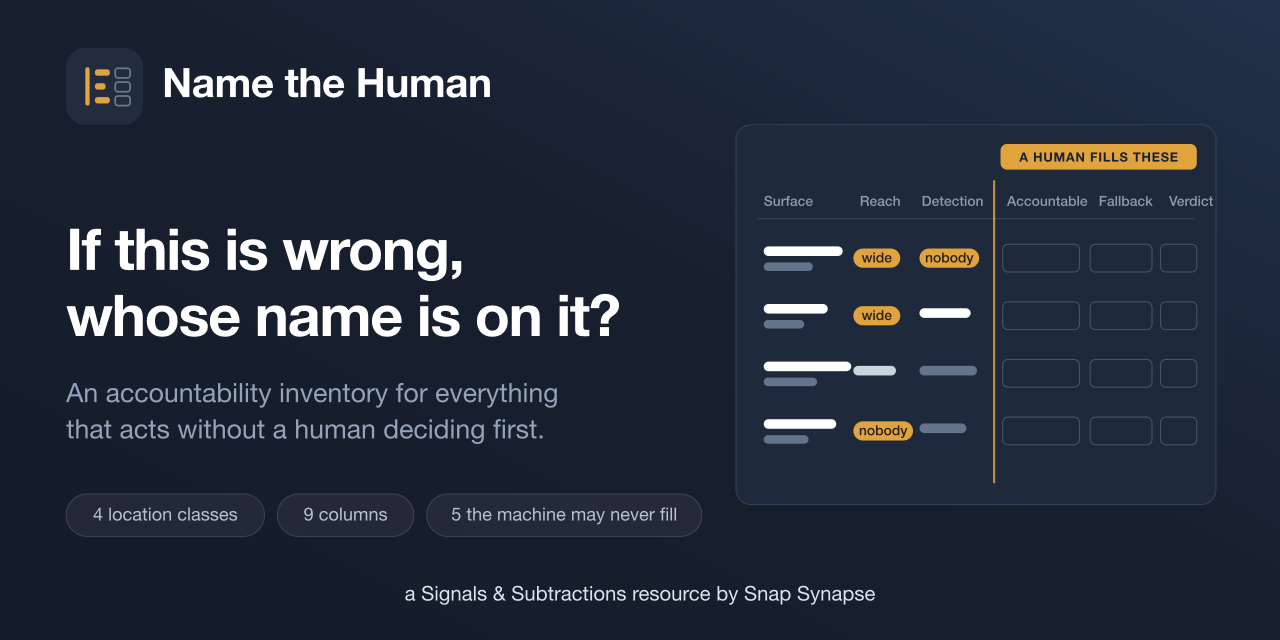
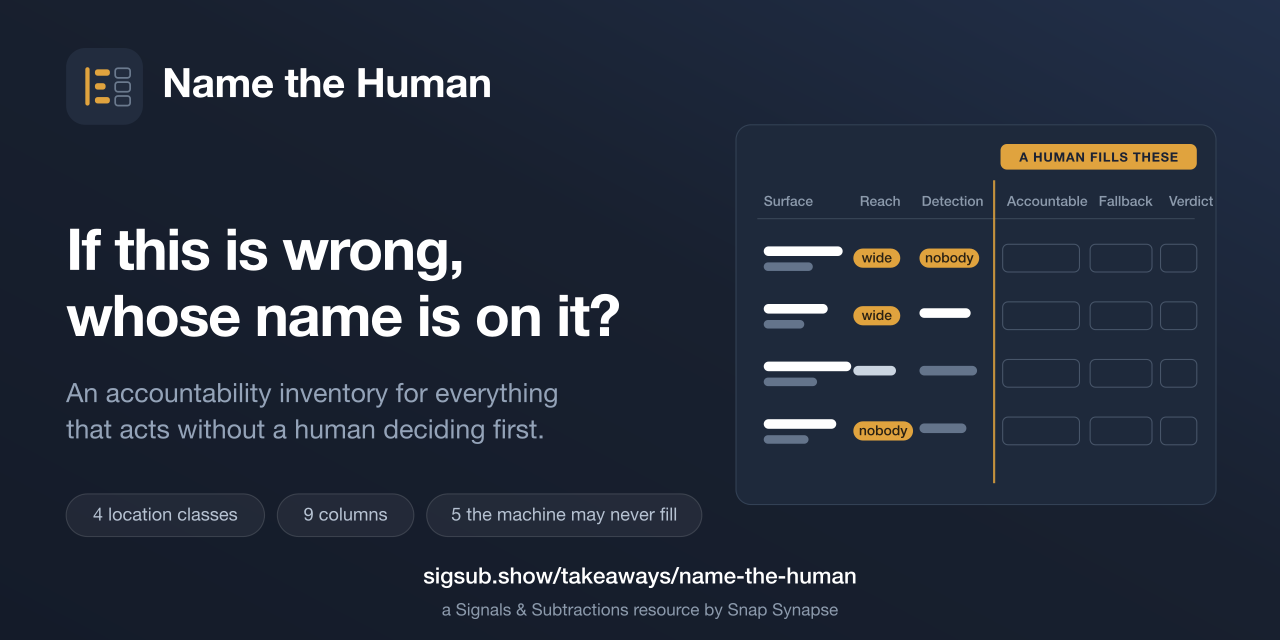
Point at the takeaway now that it is live
The page shipped at sigsub.show/takeaways/name-the-human/, so the README's
two standing promises are filled: Credit and "Where this fits" both link it.
Ep 12 stays unlinked because it has not shipped.

homepageUrl moves from the show root to the takeaway, which is the first URL
this repository has had that is actually about this repository.

The OG card gains the domain line it was built without. It was deliberately
omitted while the page 404'd, because a card advertising a URL that does not
resolve is worse than one that carries only a credit line. The credit drops
to a second line in muted grey so the address leads.

Changed region(s): [[0.3125, 0.875, 0.6875, 0.9688]]

diff --git a/README.md b/README.md
@@ -158,11 +158,11 @@ Claude Code and OpenAI Codex, on one macOS estate, by the author. Schema v0.3 ha
 
 ## Credit
 
-The responsibility-versus-accountability distinction this turns on came out of a conversation with Omar Ladak ahead of Signals & Subtractions Ep 12. The columns, the schema and the prior art are Sam's. Ep 12 and the show's own page for this will be linked here once they ship.
+The responsibility-versus-accountability distinction this turns on came out of a conversation with Omar Ladak ahead of Signals & Subtractions Ep 12. The columns, the schema and the prior art are Sam's. The show's page for this is live at [sigsub.show/takeaways/name-the-human](https://sigsub.show/takeaways/name-the-human/); Ep 12 will be linked here once it ships.
 
 ## Where this fits
 
-The method layer of a takeaway program at Signals & Subtractions. The show page for the takeaway is the layer that carries real numbers from a real pass; this repo is the schema's stable home and the tooling. Owned by Snap Synapse LLC, MIT licensed.
+The method layer of a takeaway program at Signals & Subtractions. The takeaway is at [sigsub.show/takeaways/name-the-human](https://sigsub.show/takeaways/name-the-human/), and it is the layer that carries real numbers from a real pass; this repo is the schema's stable home and the tooling. Owned by Snap Synapse LLC, MIT licensed.
 
 ## License
 
